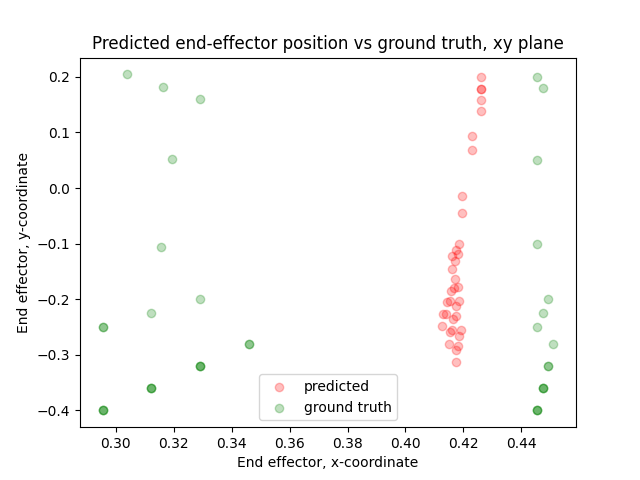
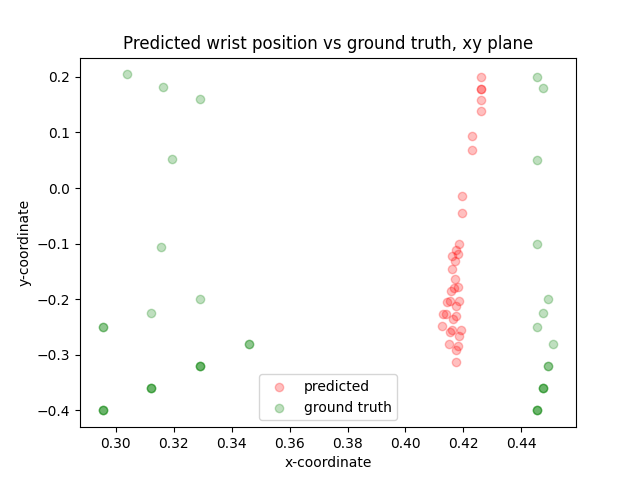
fixed to be wrist not end effector in plot outputs

Changed region(s): [[0.125, 0.0625, 0.875, 0.125], [0.0, 0.3125, 0.0625, 0.6875], [0.375, 0.9375, 0.6562, 1.0]]

diff --git a/generate_plots.py b/generate_plots.py
@@ -14,10 +14,10 @@ def get_actual_vs_predicted_position(df, save_path):
     label_coordinates = np.array(list(map(get_xy, list(df['label']))))
     plt.scatter(actual_coordinates[:, 0], actual_coordinates[:, 1], color = 'r', alpha = 0.25, label = 'predicted')
     plt.scatter(label_coordinates[:, 0], label_coordinates[:, 1], color = 'g', alpha = 0.25, label = 'ground truth')
-    plt.title('Predicted end-effector position vs ground truth, xy plane')
+    plt.title('Predicted wrist position vs ground truth, xy plane')
     plt.legend()
-    plt.xlabel('End effector, x-coordinate')
-    plt.ylabel('End effector, y-coordinate')
+    plt.xlabel('x-coordinate')
+    plt.ylabel('y-coordinate')
     plt.savefig(save_path)
     print(f'Wrote figure to: {save_path}')
     plt.clf()
@@ -59,9 +59,9 @@ def get_MSE_against_closest_sector_end(df, complete_df, save_path):
     # 11/27/22 : https://www.geeksforgeeks.org/change-plot-size-in-matplotlib-python/
     figure = plt.figure(figsize=(8, 5))
     
-    plt.xlabel('MSE to closest sector point')
-    plt.ylabel('MSE to true end effector position')
-    plt.title('Distance to sector ends vs. MSE')
+    plt.xlabel('MSE to closest arc point')
+    plt.ylabel('MSE to true position')
+    plt.title('Distance to arc ends vs. MSE')
     plt.scatter(distance_to_sector, df.mse, alpha = 0.25)
     plt.savefig(save_path)
     print(f'Wrote figure to: {save_path}')
@@ -81,7 +81,7 @@ def get_MSE_against_center_point(df, complete_df, save_path):
     mse_to_center = mse(lists_to_arrays(df['end_effector_position']), center)
     
     plt.title('Distance from return point vs error')
-    plt.ylabel('MSE from true end effector position')
+    plt.ylabel('MSE from true position')
     plt.xlabel('MSE to return point')
     plt.scatter(mse_to_center, df['mse'], alpha = 0.5)
     plt.savefig(save_path)
